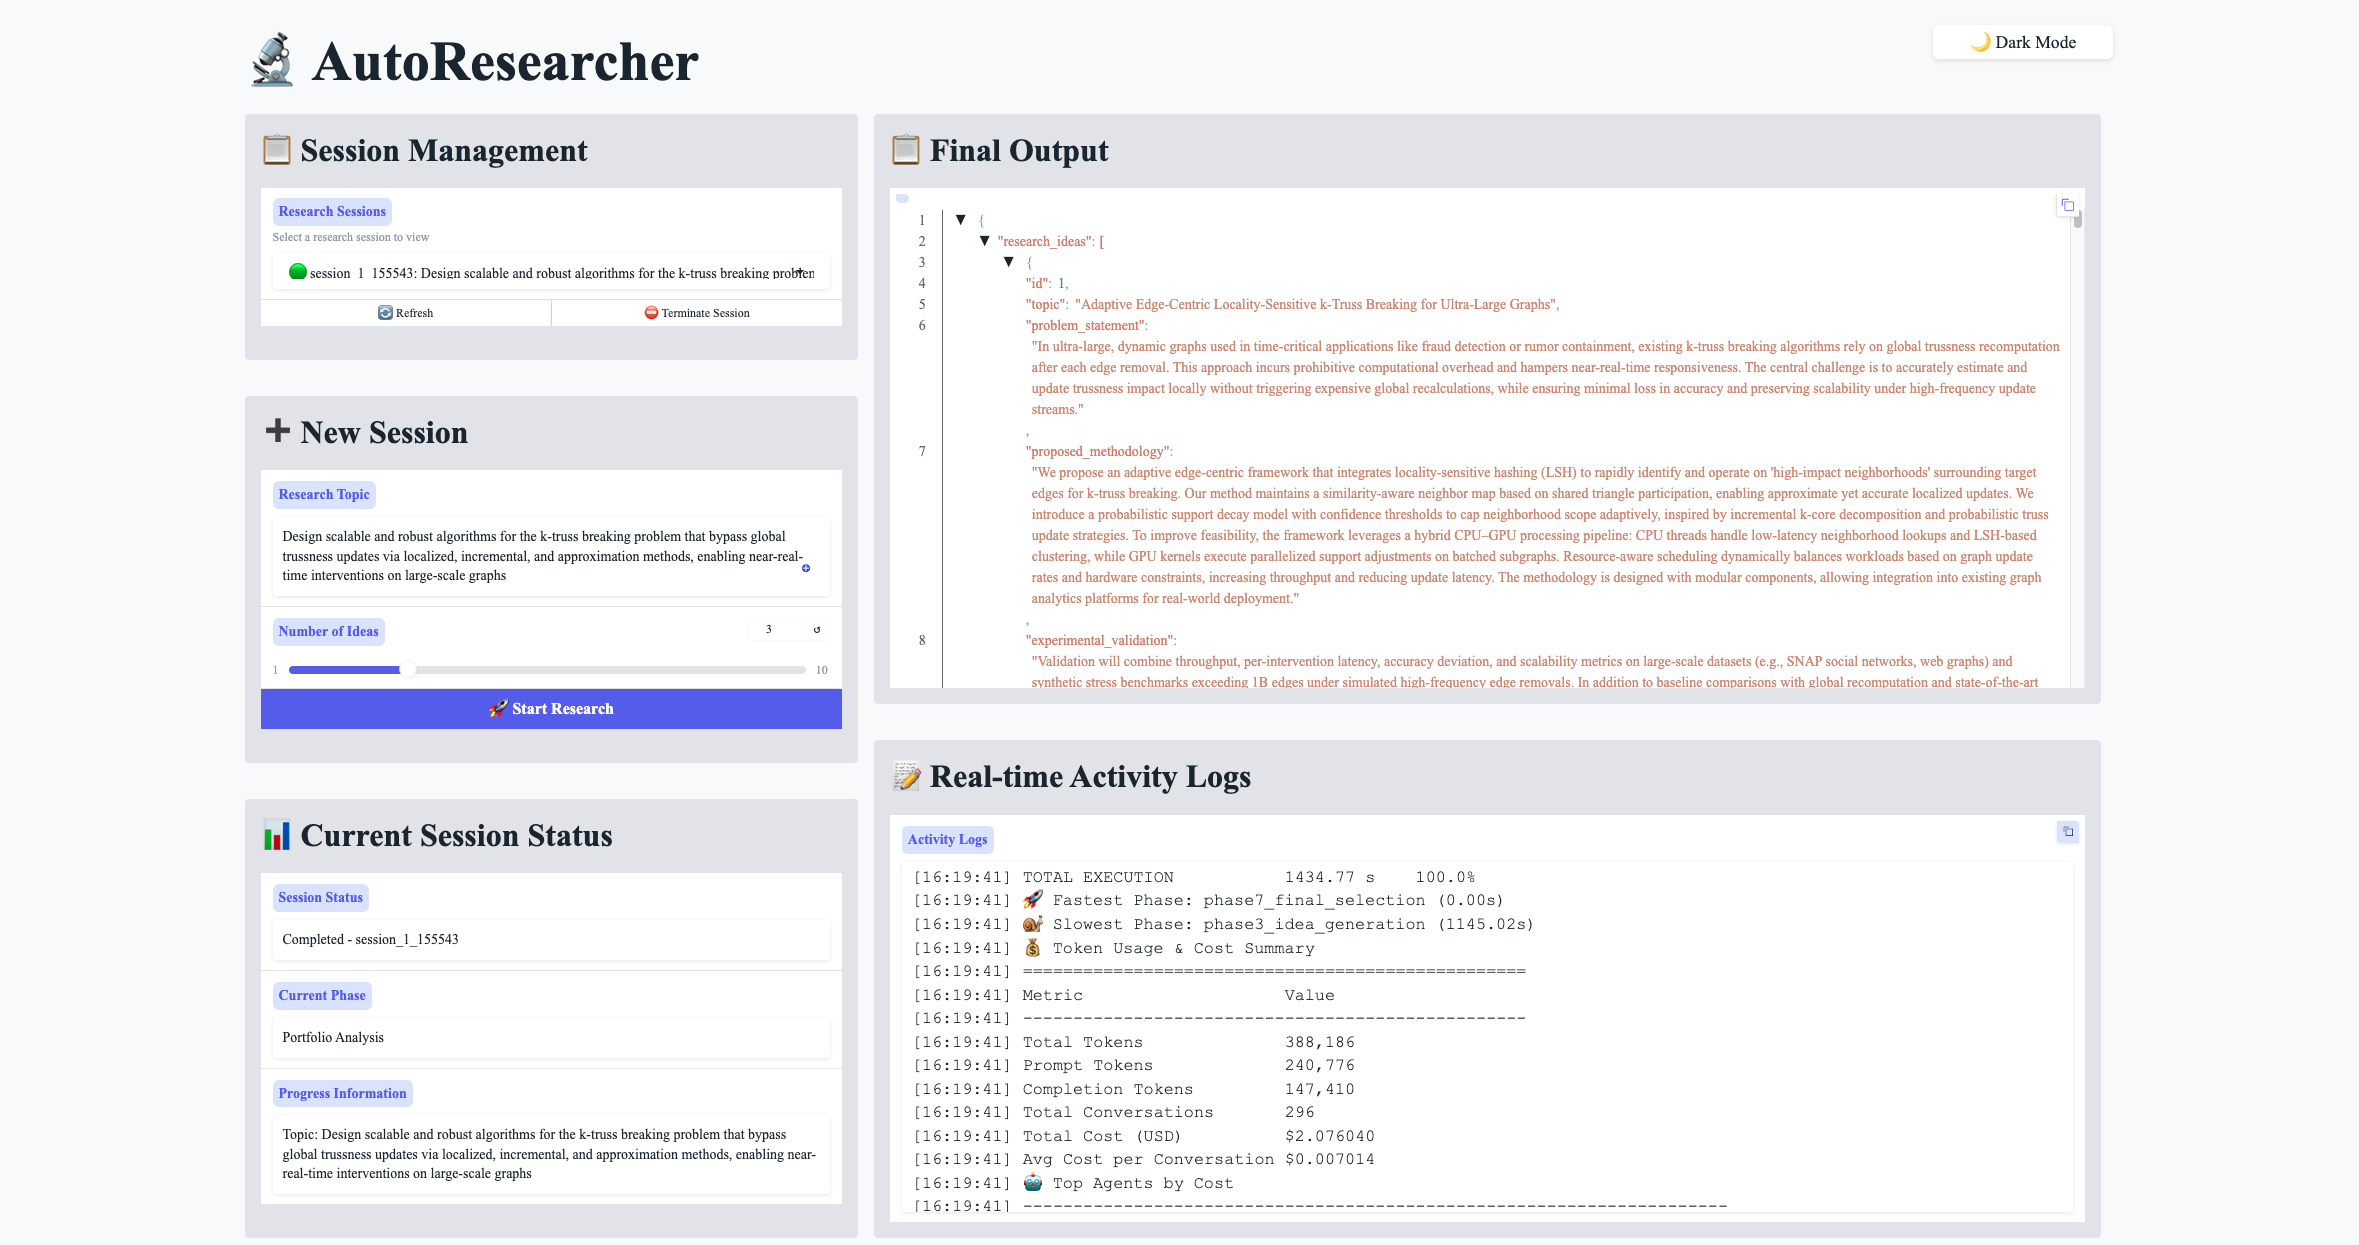
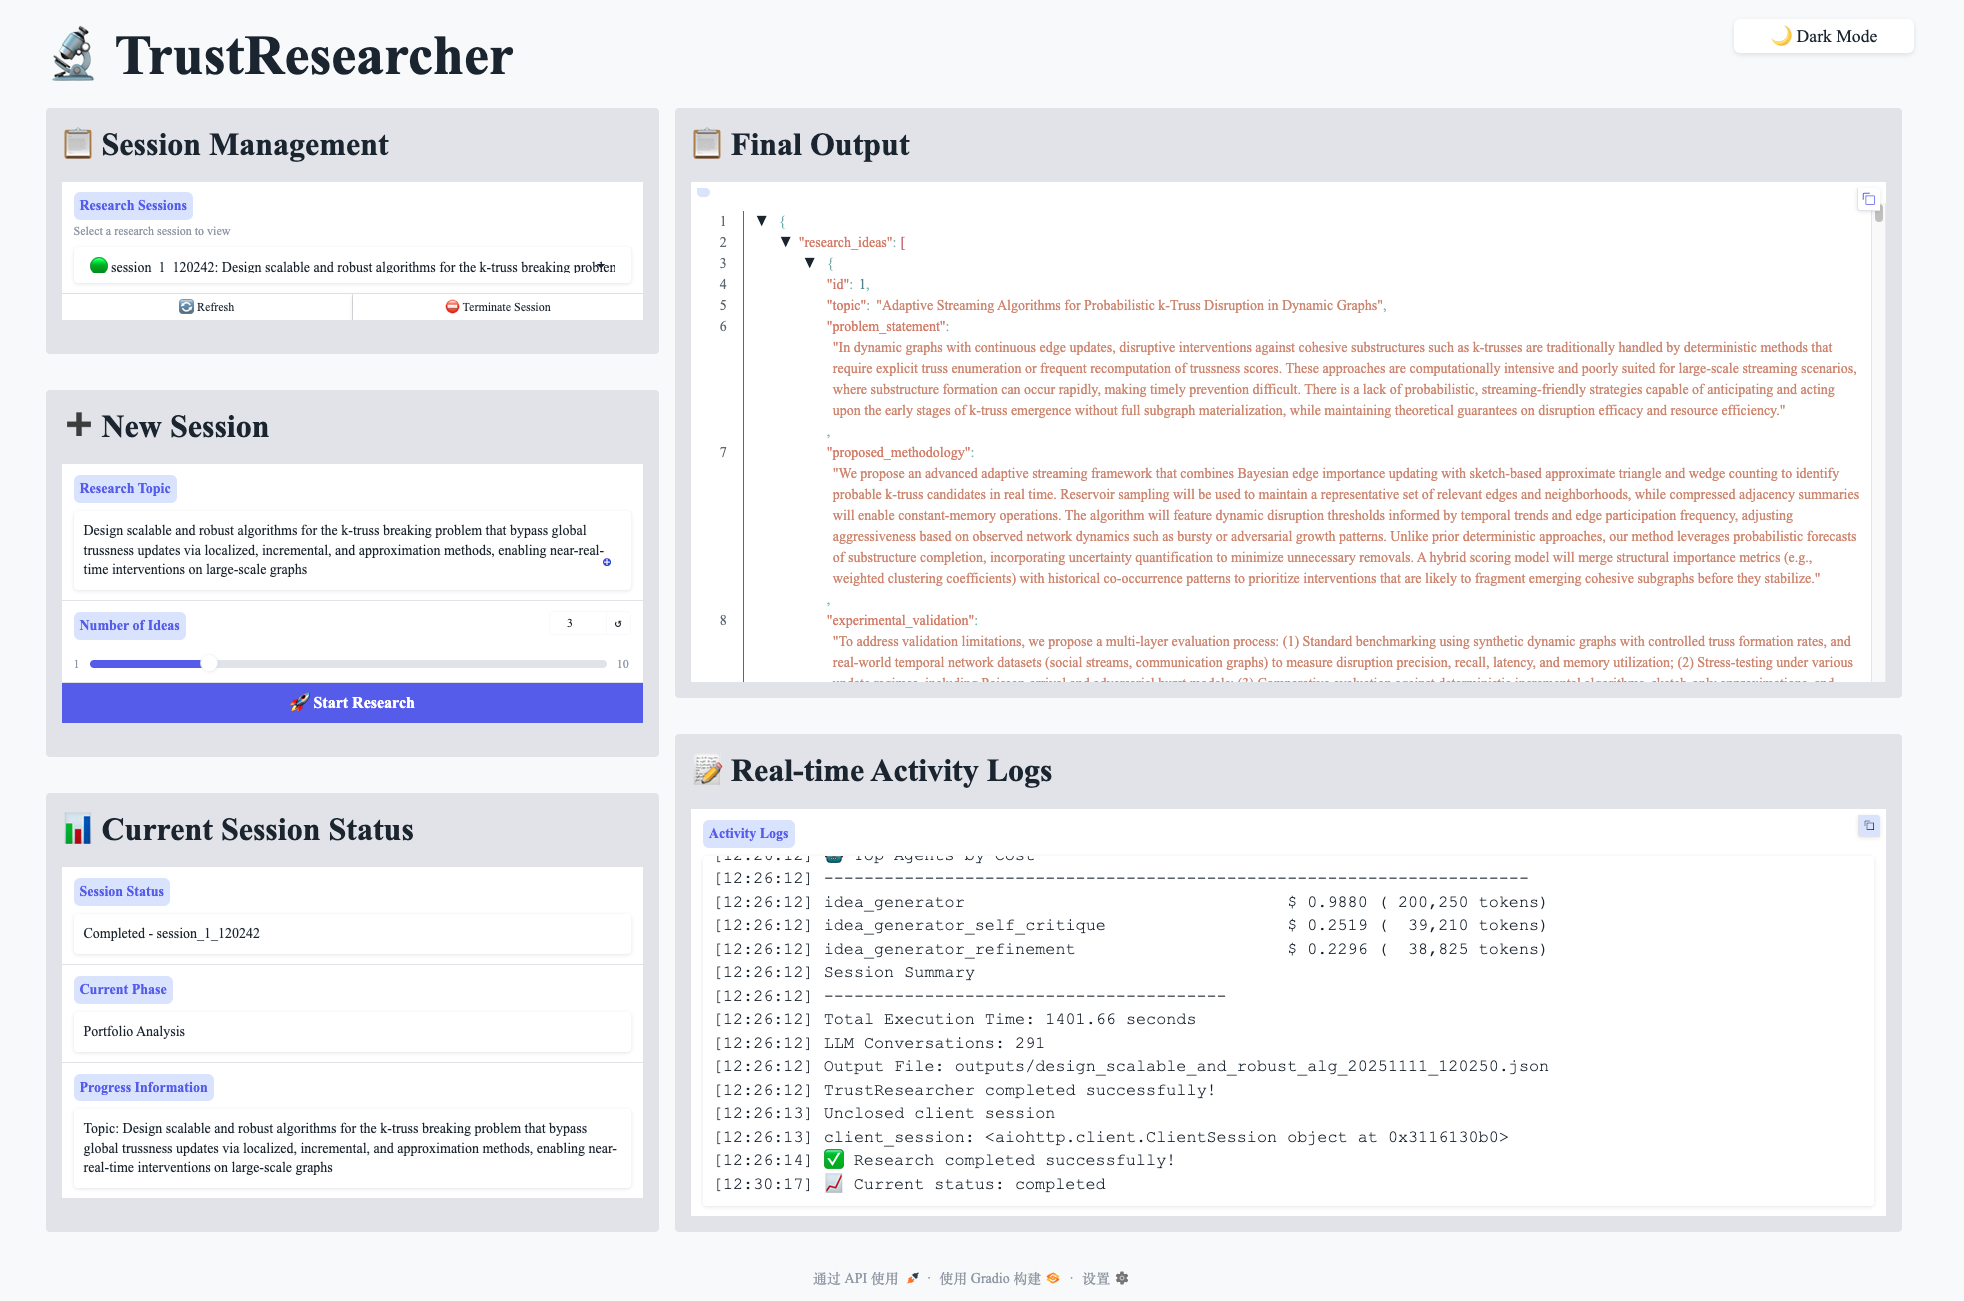
submission to WWW demo

diff --git a/src/utils/web_ui.py b/src/utils/web_ui.py
@@ -1,6 +1,6 @@
 #!/usr/bin/env python3
 """
-Web UI for Autonomous Research Agent Process Visualization
+Web UI for TrustResearcher Process Visualization
 
 Provides real-time visualization of the research agent's execution phases,
 idea generation progress, and final results through a clean Gradio interface.
@@ -293,11 +293,11 @@ class ProcessVisualizerUI:
         }
         """
 
-        with gr.Blocks(title="AutoResearcher", theme=gr.themes.Soft(), css=custom_css) as interface:
+        with gr.Blocks(title="TrustResearcher", theme=gr.themes.Soft(), css=custom_css) as interface:
             # Theme toggle button at the top right
             with gr.Row():
                 with gr.Column(scale=10):
-                    gr.Markdown("# 🔬 AutoResearcher")
+                    gr.Markdown("# 🔬 TrustResearcher")
                 with gr.Column(scale=1, min_width=150):
                     theme_toggle = gr.Button("🌙 Dark Mode", elem_id="theme-toggle-btn", size="sm")
 
@@ -841,9 +841,6 @@ class ProcessVisualizerUI:
         # Format status based on session state
         if session_status:
             status_text = f"{session_status.get('status', 'unknown').title()} - {session_id}"
-            if session_status.get('status') == 'completed':
-                duration = session_status.get('duration', 0)
-                status_text += f" (completed in {duration:.0f}s)"
         else:
             status_text = f"Active - {session_id}"
         
@@ -986,8 +983,7 @@ class ProcessVisualizerUI:
 
             # Format status text
             if status == 'completed':
-                duration = session_status.get('duration', 0)
-                status_text = f"Completed - {self.current_session_id} (in {duration:.0f}s)"
+                status_text = f"Completed - {self.current_session_id}"
             elif status == 'running':
                 status_text = f"Running - {self.current_session_id}"
             else:

diff --git a/src/main.py b/src/main.py
@@ -1,6 +1,6 @@
 #!/usr/bin/env python3
 """
-Autonomous Research Agent Main Module
+TrustResearcher Main Module
 
 This implements a comprehensive research pipeline with the following methodology:
 - Orchestrated 7-phase pipeline architecture
@@ -25,10 +25,10 @@ from .utils.phase_timer import PhaseTimer
 
 
 async def main():
-    """Main function that orchestrates the autonomous research agent using the pipeline architecture"""
+    """Main function that orchestrates the TrustResearcher using the pipeline architecture"""
     
     # Parse command line arguments
-    parser = argparse.ArgumentParser(description='Autonomous Research Agent - Orchestrated Pipeline')
+    parser = argparse.ArgumentParser(description='TrustResearcher - Orchestrated Pipeline')
     parser.add_argument('--topic', type=str, required=False, 
                        help='Seed topic for research idea generation')
     parser.add_argument('--num_ideas', type=int, default=3,
@@ -79,7 +79,7 @@ async def main():
     reset_global_session_stats()
     
     # Print startup information
-    print("Autonomous Research Agent - Orchestrated Pipeline Architecture")
+    print("TrustResearcher - Orchestrated Pipeline Architecture")
     print("=" * 60)
     if args.debug:
         print("DEBUG MODE ENABLED - Comprehensive logging active")
@@ -151,7 +151,7 @@ async def main():
             
             logger.finalize_session()
             logger.log_info(f"Orchestrated research pipeline completed successfully in {total_time:.2f} seconds")
-            print(f"\nAutonomous Research Agent completed successfully!")
+            print(f"\nTrustResearcher completed successfully!")
             
         else:
             print(f"\nPipeline execution failed: {execution_result['error']}")

diff --git a/src/ui_launcher.py b/src/ui_launcher.py
@@ -1,6 +1,6 @@
 #!/usr/bin/env python3
 """
-Autonomous Research Agent - UI Launcher
+TrustResearcher - UI Launcher
 
 Lightweight launcher for research process visualization interface:
 1. Research process visualization interface
@@ -43,7 +43,7 @@ def launch_process_ui(config_path: str = 'configs/agent_config.yaml',
 
 def main():
     parser = argparse.ArgumentParser(
-        description="Autonomous Research Agent - UI Launcher",
+        description="TrustResearcher - UI Launcher",
         formatter_class=argparse.RawDescriptionHelpFormatter,
         epilog=__doc__
     )
@@ -66,7 +66,7 @@ def main():
     
     try:
         print("=" * 60)
-        print("🤖 Autonomous Research Agent - UI Launcher")
+        print("🤖 TrustResearcher - UI Launcher")
         print("=" * 60)
         
         if args.process_ui:

diff --git a/src/utils/token_cost_tracker.py b/src/utils/token_cost_tracker.py
@@ -1,6 +1,6 @@
 #!/usr/bin/env python3
 """
-Token Cost Tracker for Autonomous Research Agent
+Token Cost Tracker for TrustResearcher
 
 Provides precise token counting and cost calculation for LLM invocations using tokencost library.
 Integrates with the existing logging system to track token usage and costs per agent and session.

diff --git a/src/pipelines/__init__.py b/src/pipelines/__init__.py
@@ -1,5 +1,5 @@
 """
-Pipeline Architecture for Autonomous Research Agent
+Pipeline Architecture for TrustResearcher
 
 This module defines the core pipeline interfaces and implementations
 for the multi-stage research idea generation and evaluation system.

diff --git a/src/utils/debug_logger.py b/src/utils/debug_logger.py
@@ -1,6 +1,6 @@
 #!/usr/bin/env python3
 """
-Debug Logger for Autonomous Research Agent
+Debug Logger for TrustResearcher
 
 Provides comprehensive logging in a single consolidated file per session with line numbers
 """

diff --git a/README.md b/README.md
@@ -1,6 +1,6 @@
 <div align="center">
 
-# 🔬 AutoResearcher: Automating Knowledge-Grounded and Transparent Research Ideation with Multi-Agent Collaboration
+# 🔬 TrustResearcher: Automating Knowledge-Grounded and Transparent Research Ideation with Multi-Agent Collaboration
 
 Elegant, multi-stage research ideation — from literature search to refined, distinct, well‑reviewed ideas — with clear logs, reproducible outputs, and a minimal setup.
 
@@ -20,7 +20,7 @@ Elegant, multi-stage research ideation — from literature search to refined, di
 
 ## 🧩 What It Does
 
-The Autonomous Research Agent takes a topic and produces a polished set of research ideas by orchestrating a practical, literature‑aware pipeline:
+The TrustResearcher takes a topic and produces a polished set of research ideas by orchestrating a practical, literature‑aware pipeline:
 
 - Retrieves relevant papers via the Semantic Scholar API with concurrency, rate‑limiting, retries, de‑duplication, and relevance/citation ranking.
 - Builds a topic‑anchored knowledge graph to maintain external memory during ideation.
@@ -39,7 +39,7 @@ Requirements
 - Python 3.8+
 - Network access for the model API and Semantic Scholar
 
-*Tip: use a virtual environment (venv or conda) to isolate dependencies.*
+*Tip: use a virtual environment (conda for example) to isolate dependencies.*
 
 Install
 ```bash
@@ -52,7 +52,7 @@ Configure your credentials in `configs/custom_pipeline_example.yaml` and rename 
 
 ## ✨ Key Features & Pipeline
 
-AutoResearcher integrates a fully literature-aware, multi-agent workflow that bridges retrieval, reasoning, and review — ensuring both novelty and evidence grounding.
+TrustResearcher integrates a fully literature-aware, multi-agent workflow that bridges retrieval, reasoning, and review — ensuring both novelty and evidence grounding.
 
 ### 🔑 Key Features
 
@@ -134,7 +134,7 @@ If you find this work useful, please cite our paper:
 
 ```bibtex
 @misc{zhou2025autoresearcher,
-      title        = {{\textsc{AutoResearcher}}: Automating Knowledge-Grounded and Transparent Research Ideation with Multi-Agent Collaboration},
+      title        = {{\textsc{TrustResearcher}}: Automating Knowledge-Grounded and Transparent Research Ideation with Multi-Agent Collaboration},
       author       = {Jiawei Zhou and Ruicheng Zhu and Mengshi Chen and Jianwei Wang and Kai Wang},
       year         = {2025},
       eprint       = {2510.20844},
